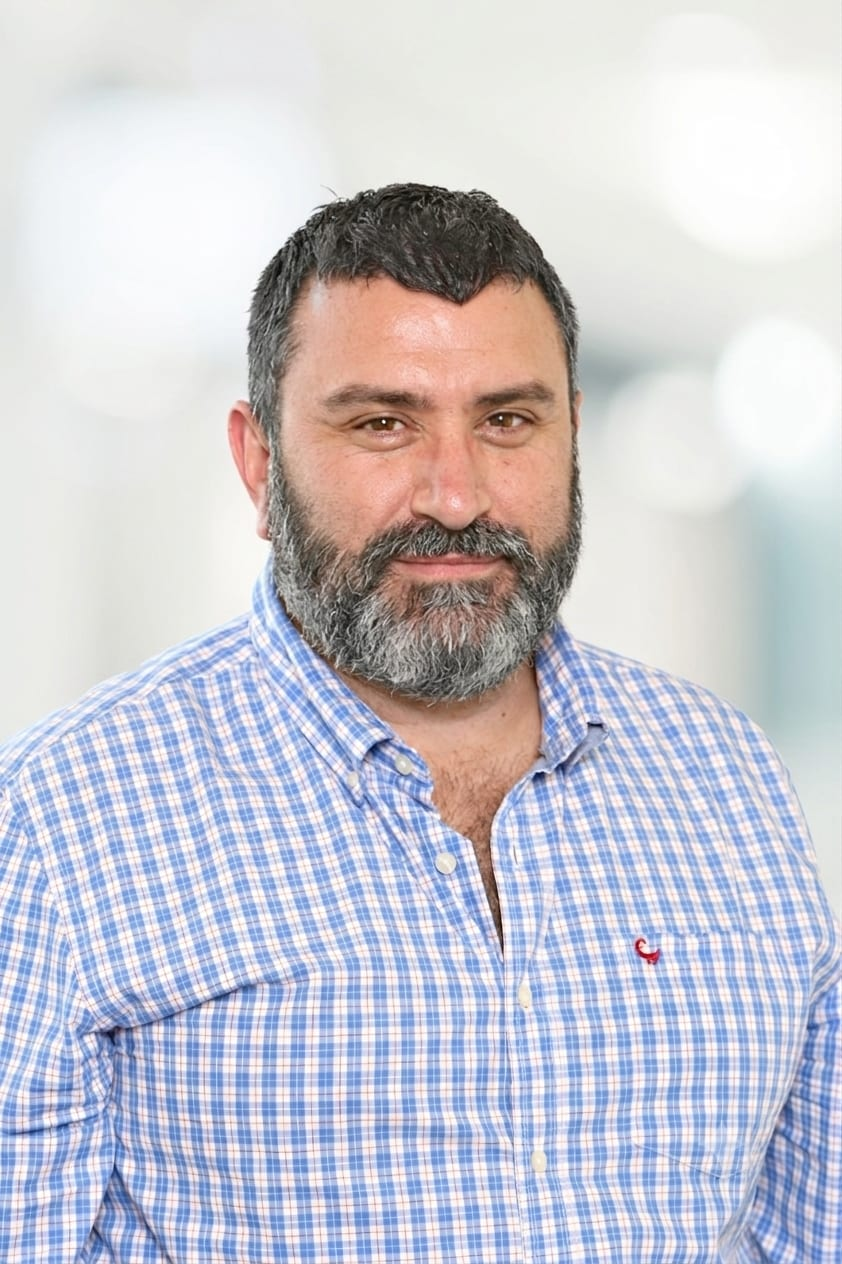
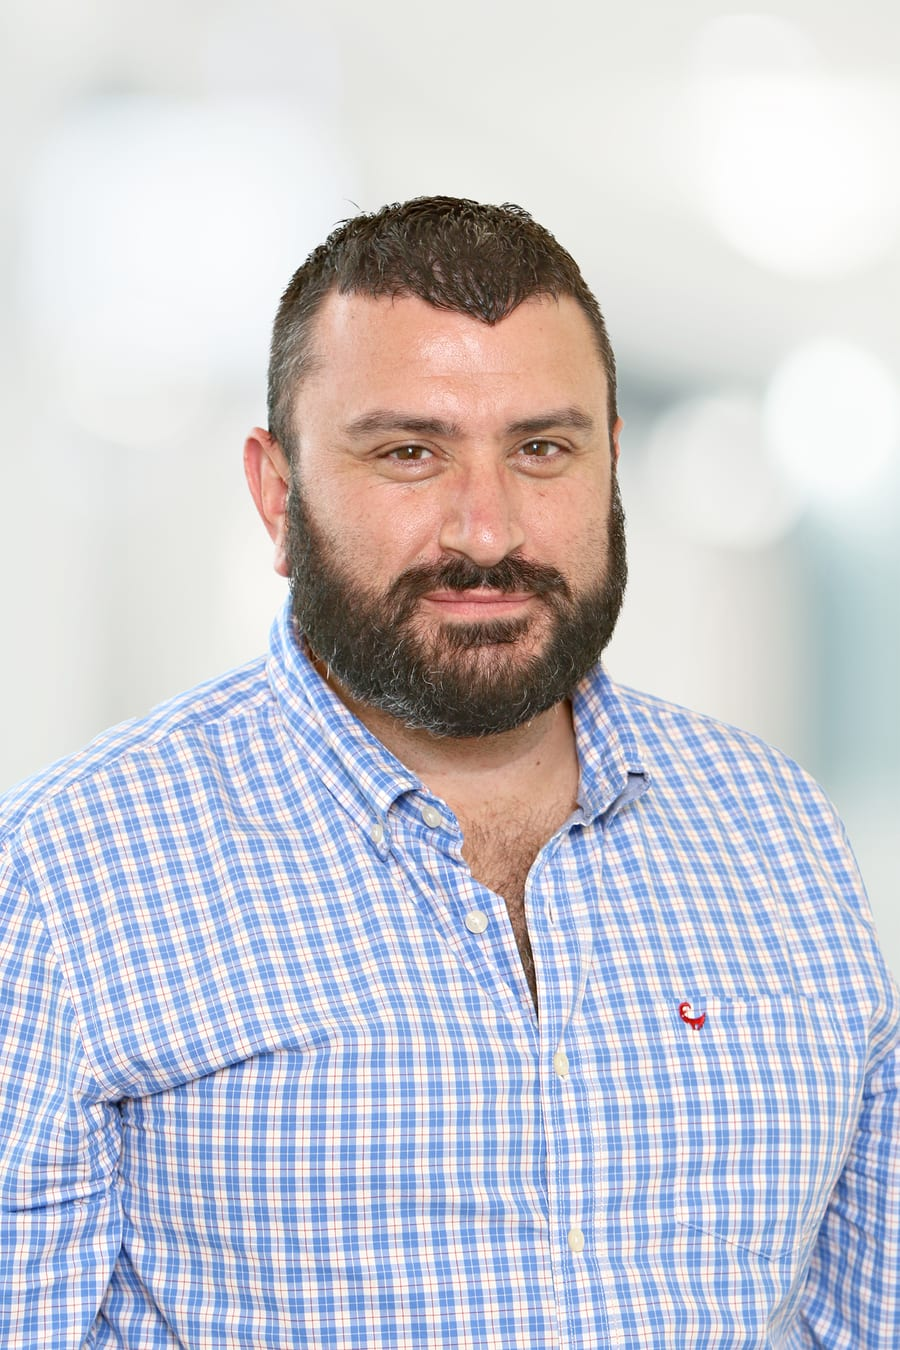
Replace portrait with real headshot of Chris (versioned ?v=3)
- public/assets/chris-savides.jpg regenerated from chris-headshot.jpg (900x1350, 198KB)
- bump portrait refs to ?v=3 (busts cache), update img dimensions; ignore source chris-headshot.jpg

diff --git a/public/about.html b/public/about.html
@@ -44,7 +44,7 @@
   "email": "chris@ukuva.com",
   "address": { "@type": "PostalAddress", "addressLocality": "Amsterdam", "addressCountry": "NL" },
   "knowsAbout": [ "Venture launch planning", "Cross-border payments", "Fintech operations", "Market entry", "Post-acquisition integration" ],
-  "image": "https://ukuva.com/assets/chris-savides.jpg",
+  "image": "https://ukuva.com/assets/chris-savides.jpg?v=3",
   "sameAs": ["https://www.linkedin.com/in/chris-savides-ukuva"]
 }
 </script>
@@ -106,7 +106,7 @@
     <div class="about-head">
       <div class="about-head__photo">
         <div class="frame">
-          <img src="assets/chris-savides.jpg" alt="Christopher Savides, founder of Ukuva, Amsterdam" width="842" height="1264">
+          <img src="assets/chris-savides.jpg?v=3" alt="Christopher Savides, founder of Ukuva, Amsterdam" width="900" height="1350">
         </div>
         <div class="about-head__cap">Christopher Savides &middot; Founder, Ukuva &middot; Amsterdam</div>
       </div>

diff --git a/public/index.html b/public/index.html
@@ -380,7 +380,7 @@
   <div class="wrap why">
     <div class="why__photo" data-reveal>
       <div class="frame">
-        <img src="assets/chris-savides.jpg" alt="Christopher Savides, founder of Ukuva, Amsterdam" loading="lazy" width="842" height="1264">
+        <img src="assets/chris-savides.jpg?v=3" alt="Christopher Savides, founder of Ukuva, Amsterdam" loading="lazy" width="900" height="1350">
       </div>
       <div class="why__cap">Christopher Savides &middot; Founder, Ukuva</div>
     </div>
